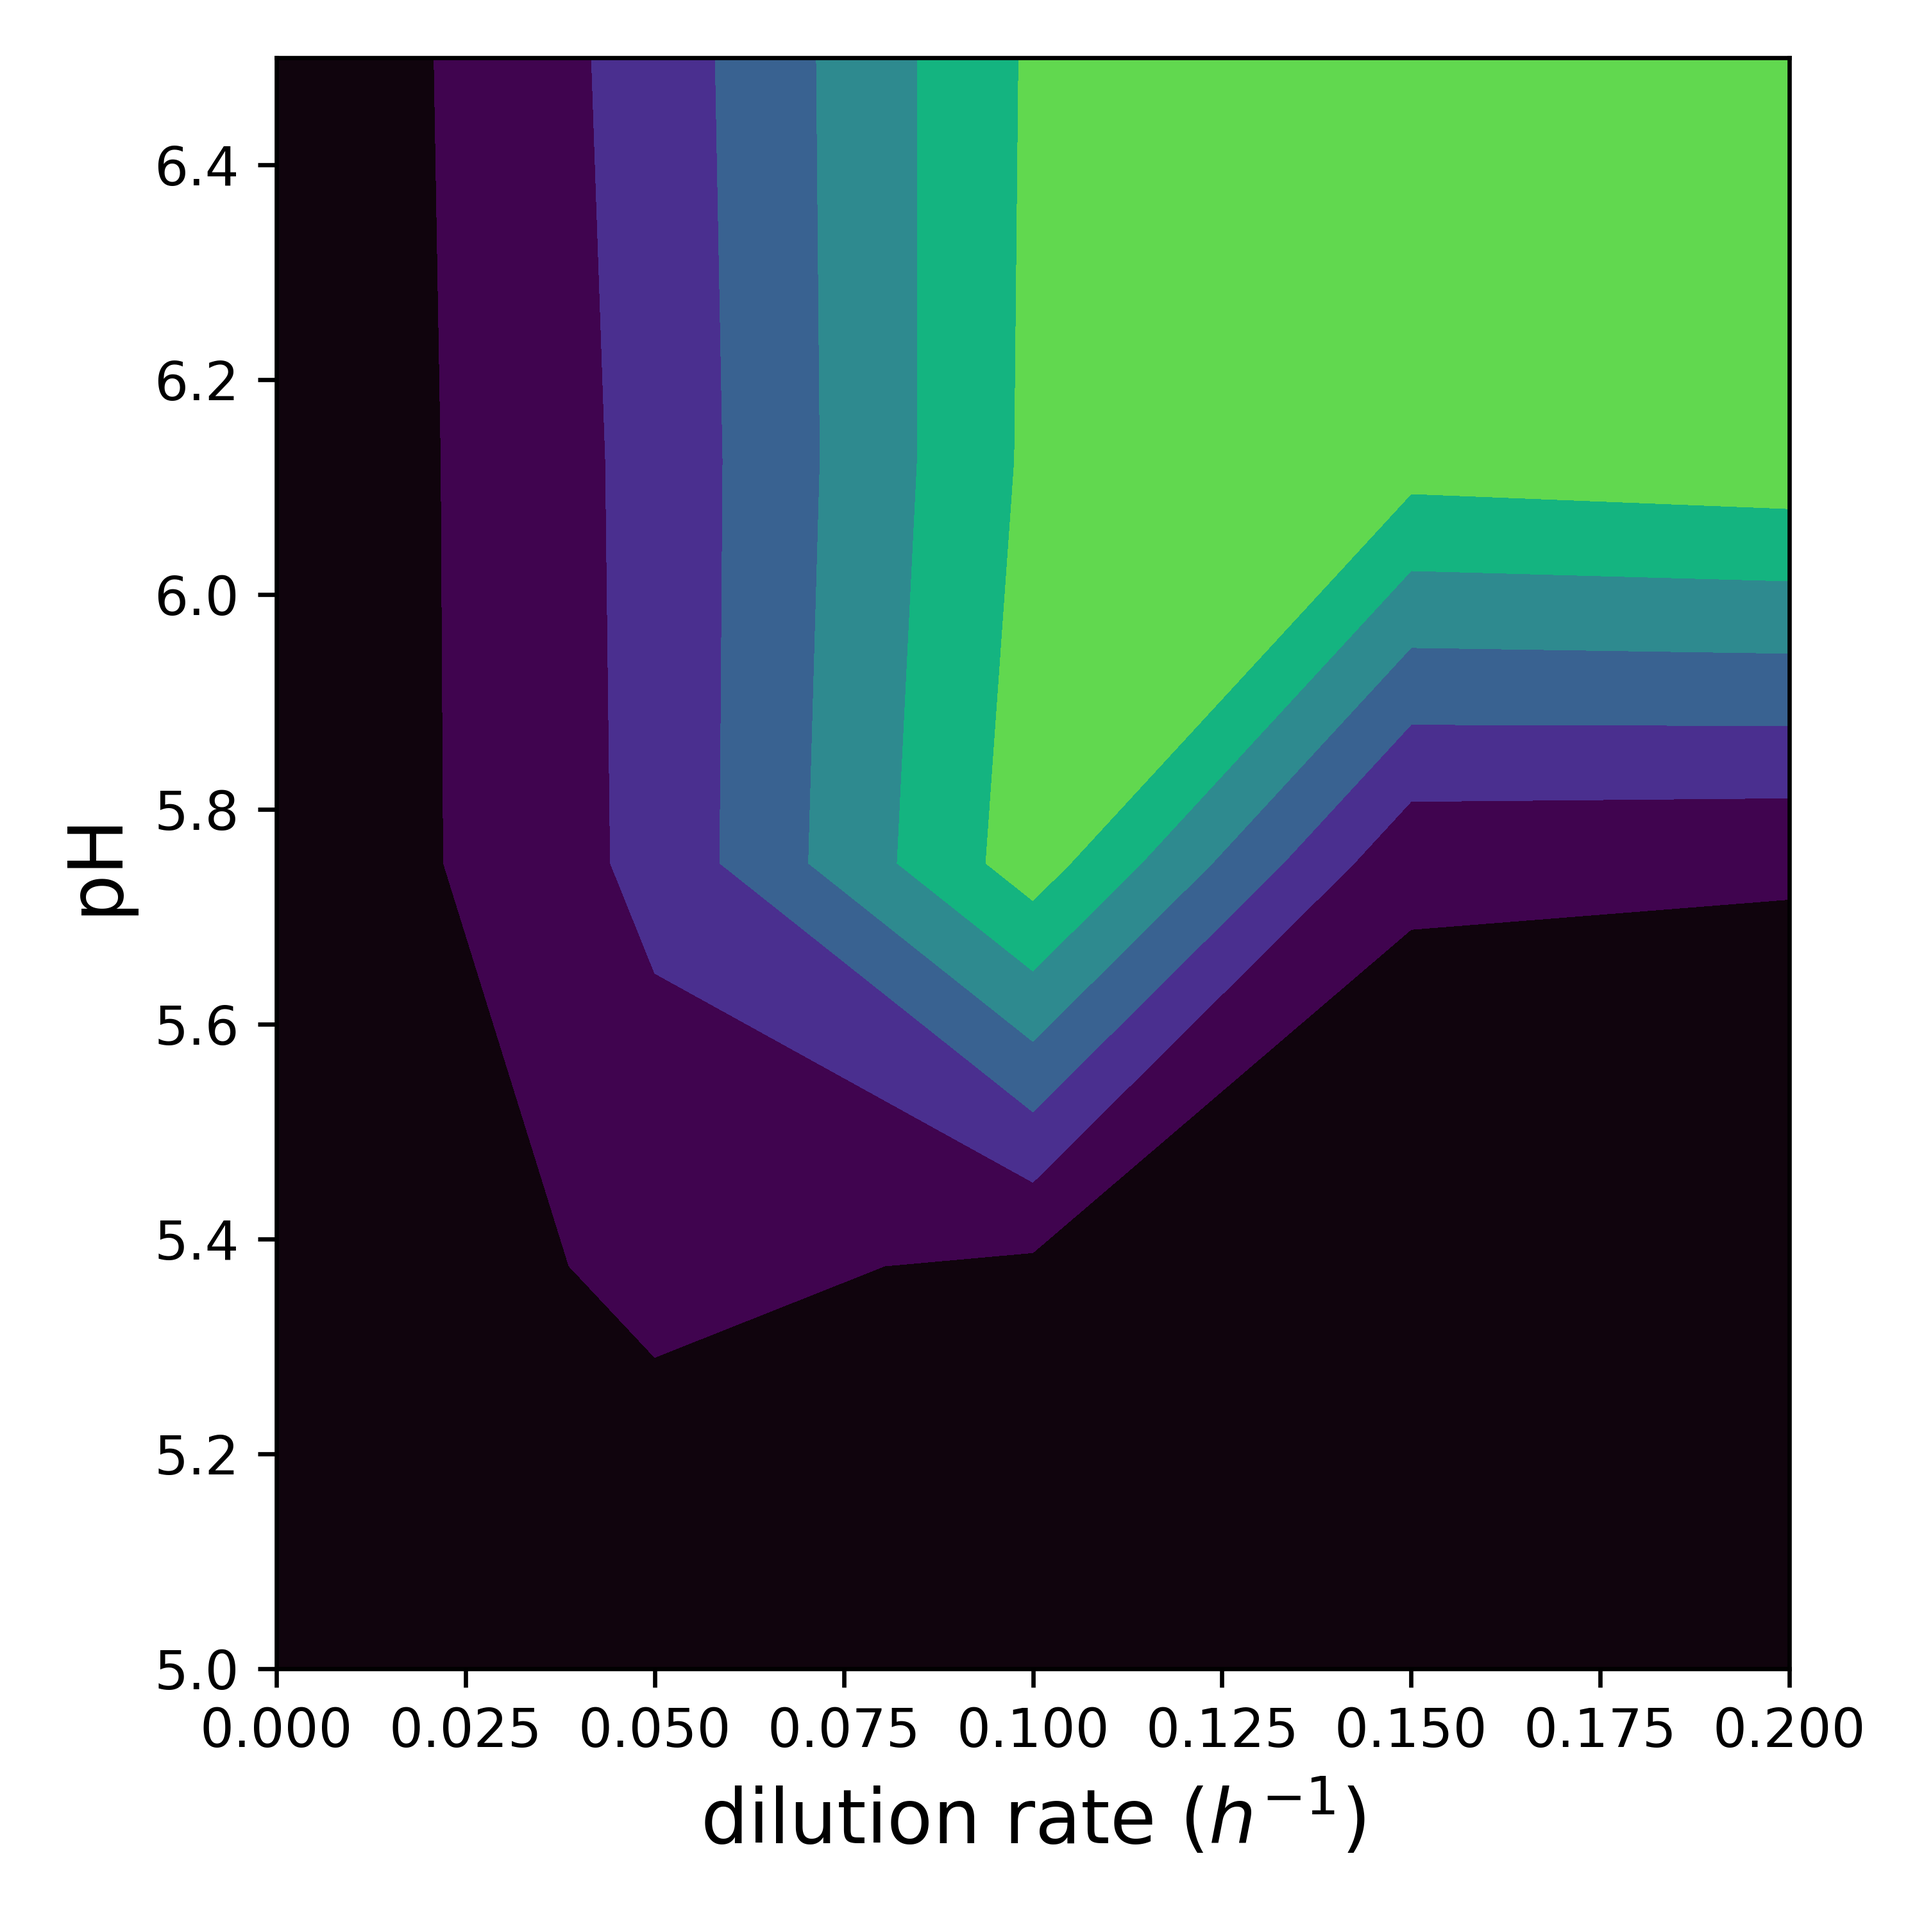
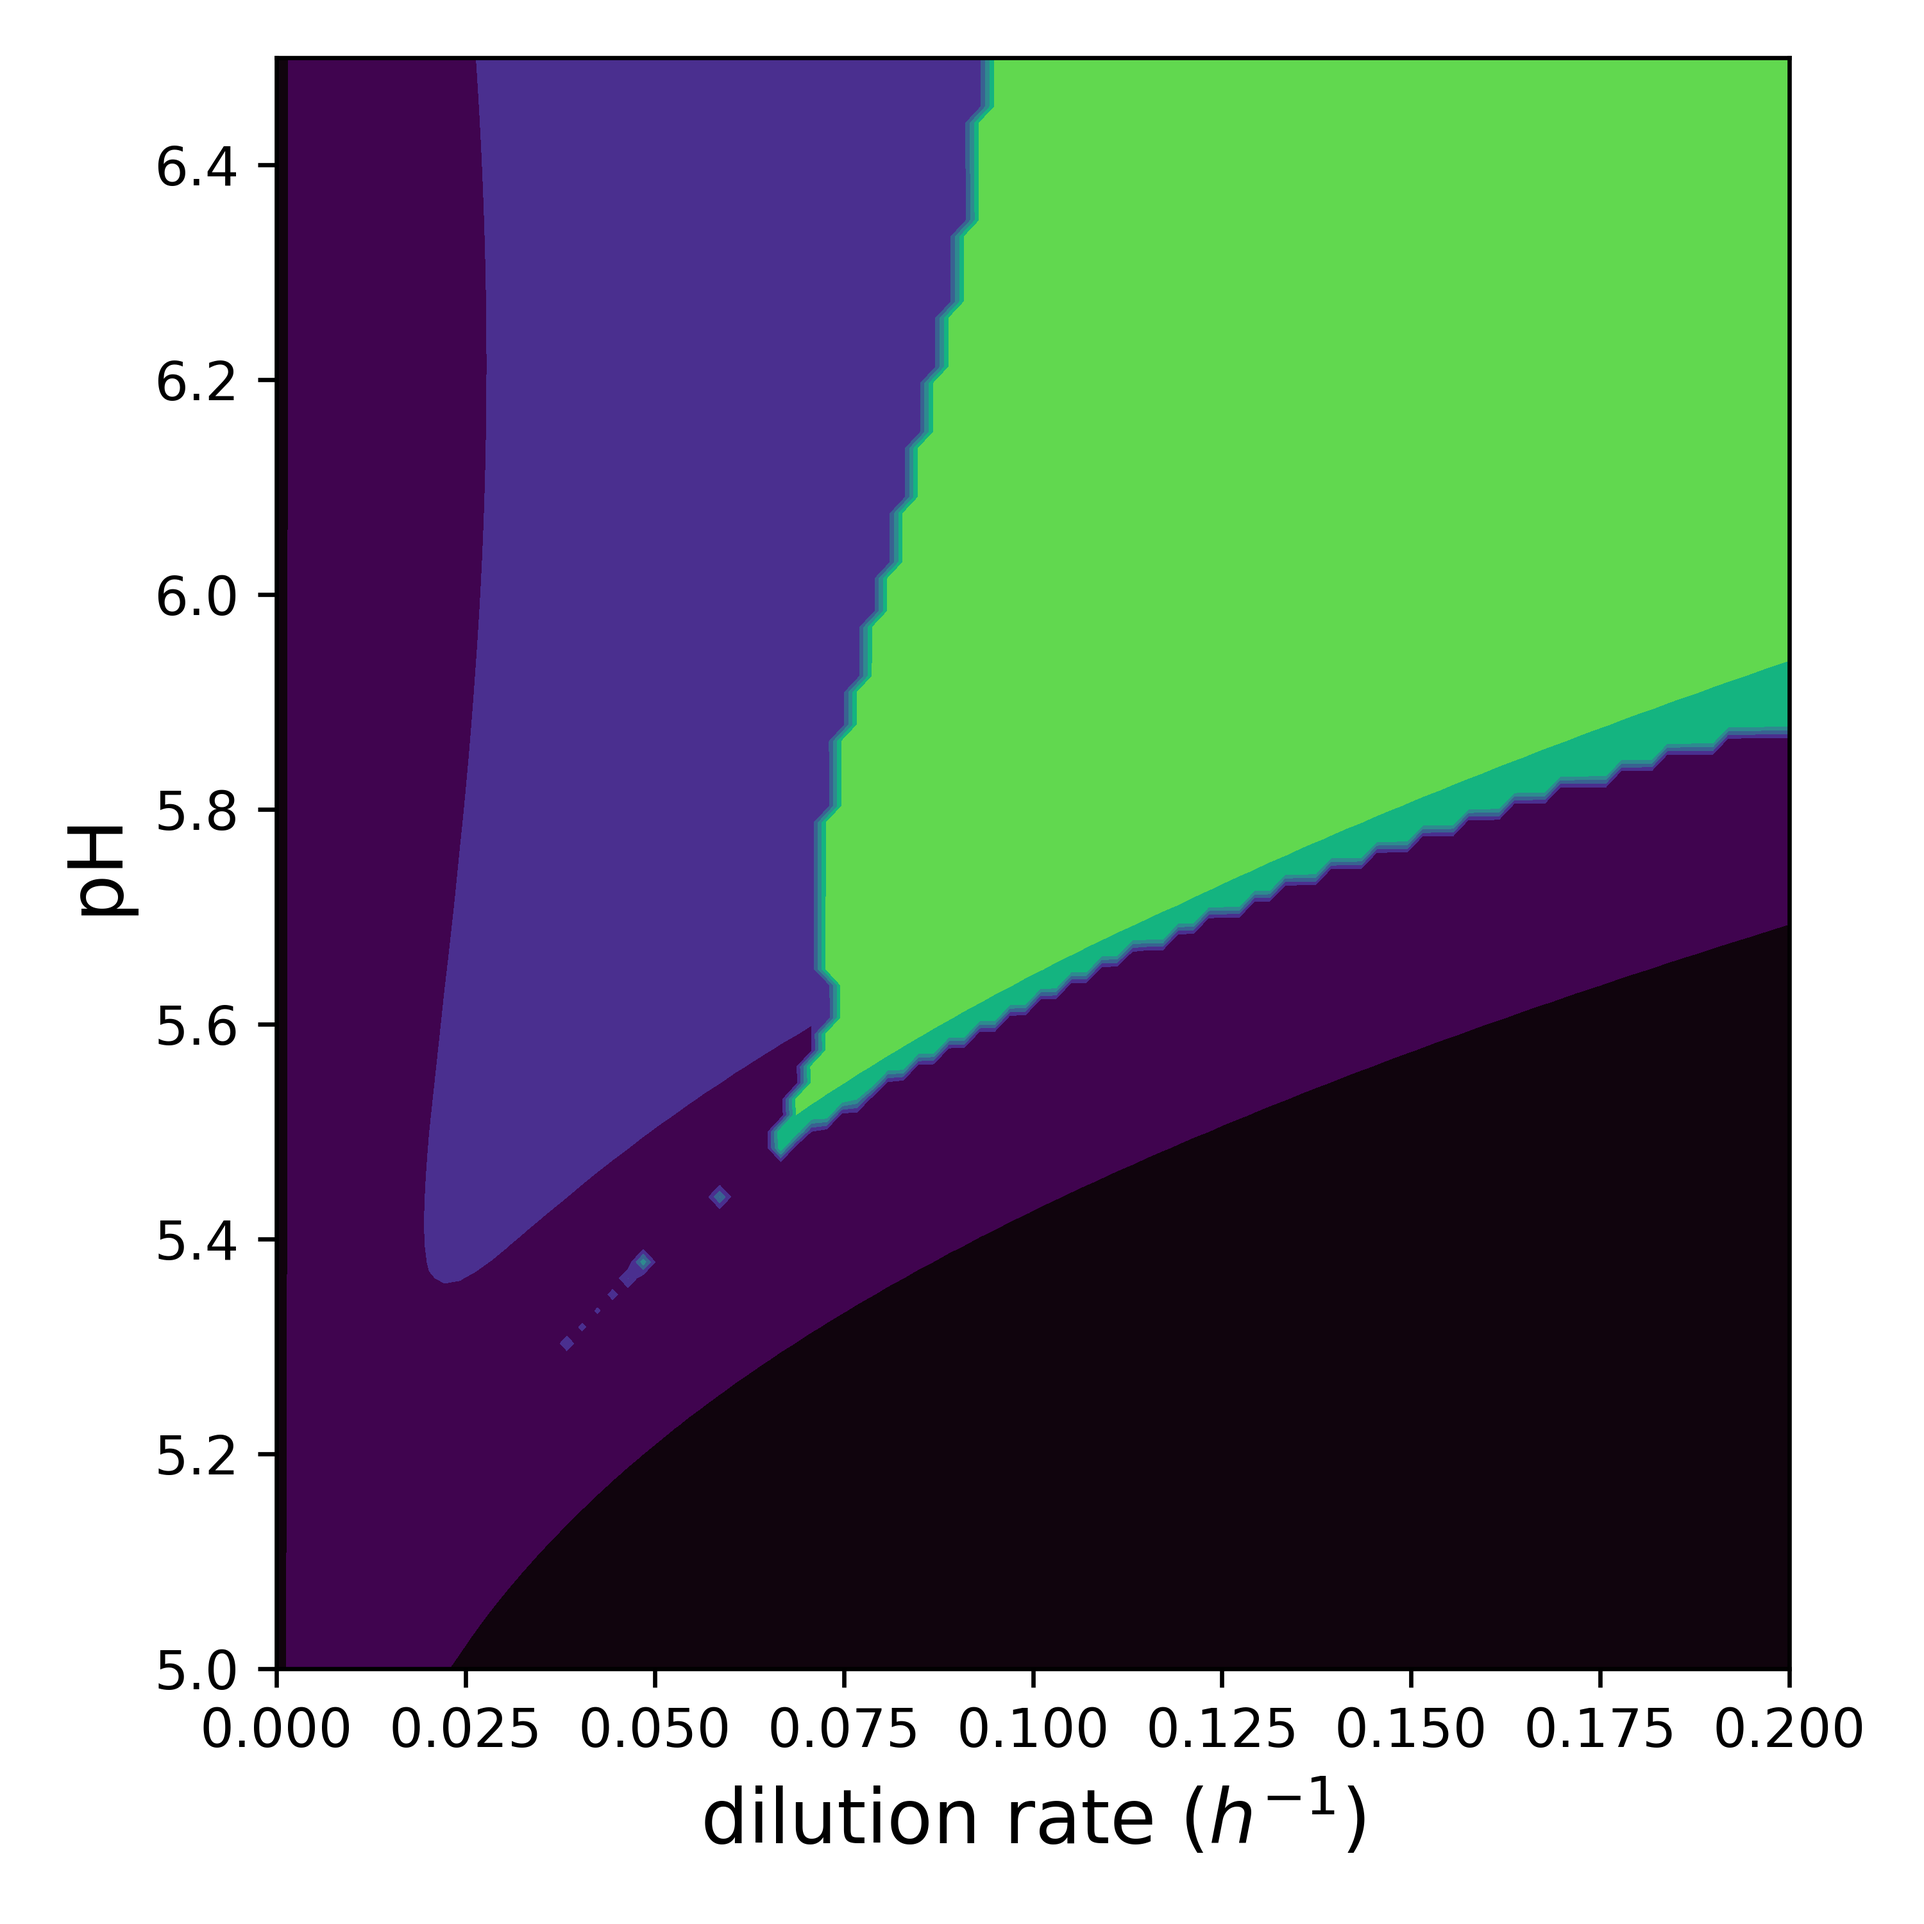
updates

Changed region(s): [[0.124, 0.031, 0.93, 0.868]]

diff --git a/scripts/analysis/dilutionRateSweep.py b/scripts/analysis/dilutionRateSweep.py
@@ -1,0 +1,282 @@
+# -*- coding: utf-8 -*-
+"""
+Created on Thu Dec  7 17:11:52 2023
+
+@author: drgarza
+"""
+from pathlib import Path
+import os
+import sys
+
+import numpy as np
+import matplotlib.pyplot as plt
+import matplotlib as mpl
+mpl.rcParams.update({'font.family':'sans-serif', 'font.sans-serif':['DejaVu Sans']})
+
+sys.path.append(os.getcwd())
+sys.path.append(os.path.join(Path(os.getcwd()).parents[0], 'db'))
+sys.path.append(os.path.join(Path(os.getcwd()).parents[0], 'core'))
+sys.path.append(os.path.join(Path(os.getcwd()).parents[1], 'files'))
+
+from param_change import *
+from readModelDB import get_database, createMetabolome, createBacteria
+from mainClasses import *
+from param_change import *
+
+import cmasher as cmr
+
+from tqdm import tqdm
+
+
+
+import plotly.io as pio
+pio.renderers.default='browser'
+
+from matplotlib.colors import ListedColormap
+
+
+
+
+def create_heatmap(data, row_labels, x_positions, x_values, xlabel, ylabel, title, fileName = None):
+    fig, ax = plt.subplots()
+    heatmap = ax.imshow(data, aspect='auto')
+    ax.grid(False)
+
+    # Set row labels (y-axis)
+    ax.set_yticks(np.arange(data.shape[0]))
+    
+    yticklabels = ax.set_yticklabels(row_labels)
+    yticklabels[-1].set_fontstyle('italic')
+    yticklabels[-2].set_fontstyle('italic')
+    yticklabels[-3].set_fontstyle('italic')
+
+    # Set specific x-ticks and labels (x-axis)
+    ax.set_xticks(x_positions)
+    ax.set_xticklabels(x_values)
+
+    # Set labels and title
+    ax.set_xlabel(xlabel)
+    ax.set_ylabel(ylabel)
+    ax.set_title(title)
+    
+    # Add grid
+    ax.set_xticks(np.arange(-.5, data.shape[1], 1), minor=True)
+    ax.set_yticks(np.arange(-.5, data.shape[0], 1), minor=True)
+    ax.grid(which="minor", color="gray", linestyle='-', linewidth=0.5)
+    ax.tick_params(which="minor", size=0)
+
+    # Add colorbar
+    cbar = ax.figure.colorbar(heatmap, ax=ax)
+    plt.tight_layout()
+    
+    if fileName is not None:
+        plt.savefig(fileName, transparent=True, dpi=600)
+
+    plt.show()
+
+
+def mockpHfunc(metObj, pH=7.0):
+    def pHfunc(metObj):
+        return pH
+    return pHfunc
+
+def makeSimulation(pHControl = None, 
+                   dilutionFactor = 0.5, 
+                   xa = 0.03,
+                   xb = 0.001,
+                   xe = 0.03,
+                   xf = 0.001,
+                   xi = 0.03,
+                   xj = 0.001):
+    
+    #pH profile
+    ipH_path = os.path.join(Path(os.getcwd()).parents[1], 'files', 'pH', 'acids_pH.tsv') 
+    databaseName = 'bhbtri_analysis_db.sqlite3'
+    databaseFolder =  os.path.join(Path(os.getcwd()).parents[1], 'files', 'dbs')
+
+    #update database with parameters from a file
+    ##########################################
+
+    
+
+       #Load database
+    db = get_database(os.path.join(databaseFolder, databaseName))
+
+    #getStarting pH
+    wc = createMetabolome(db, 'wc_media')
+    
+    if pHControl is None:
+        predictpH = getpH(wc.metabolites, ipH_path)
+    else:
+        predictpH = mockpHfunc(wc.metabolites,pH=pHControl)
+     
+    pH =  predictpH(wc.get_concentration())
+
+    #get the feed media and the reactor media
+    wc_feed = createMetabolome(db, 'wc_media', pH, pHFunc=predictpH)
+    wc_reactor = createMetabolome(db, 'wc_media', pH, pHFunc=predictpH)
+
+    #get the feed obj. Make it sterile
+    feed_microbiome = Microbiome({'bh':createBacteria(db, 'bh', 'wc_media'),
+                              'bt':createBacteria(db, 'bt', 'wc_media'),
+                              'ri':createBacteria(db, 'ri', 'wc_media')})
+    feed_microbiome.subpopD['xa'].count = 0
+    feed_microbiome.subpopD['xe'].count = 0
+    feed_microbiome.subpopD['xi'].count = 0
+
+    #create the reactor obj, with starting populations
+    reactor_microbiome = Microbiome({'bh':createBacteria(db, 'bh', 'wc_media'),
+                                 'bt':createBacteria(db, 'bt', 'wc_media'),
+                                 'ri':createBacteria(db, 'ri', 'wc_media')})
+    reactor_microbiome.subpopD['xa'].count = xa
+    reactor_microbiome.subpopD['xb'].count = xb
+    reactor_microbiome.subpopD['xe'].count = xe
+    reactor_microbiome.subpopD['xf'].count = xf
+    reactor_microbiome.subpopD['xi'].count = xi
+    reactor_microbiome.subpopD['xj'].count = xj
+    
+    batchA = Pulse(wc_feed, feed_microbiome, 0, 6000, 100, 0, 0, dilutionFactor,dilutionFactor)
+    
+        #simulate
+    reactor = Reactor(reactor_microbiome, wc_reactor,[
+                                                      batchA
+                                                       ], 15)
+    
+    reactor = update_bh_Params("z1_r", 0.0, reactor)
+    reactor = update_bh_Params("z2_r", 0.0, reactor)
+    
+    reactor = update_bt_Params("z6_r", 0.0, reactor)
+    reactor = update_bt_Params("z10_r", 0.0, reactor)
+    
+    reactor = update_ri_Params("z11_r", 0.0, reactor)
+    reactor = update_ri_Params("z15_r", 0.0, reactor)
+    reactor.simulate()
+    
+    
+    
+    batchA = Pulse(wc_feed, feed_microbiome, 0, 6000, 100, 0, 0, dilutionFactor,dilutionFactor)
+
+    #simulate
+    reactor = Reactor(reactor_microbiome, wc_reactor,[
+                                                  batchA
+                                                   ], 15)
+    reactor.simulate()
+    b = reactor.cellActive_dyn.T[-1]
+    bac_composition = b
+    pyru = reactor.met_simul[reactor.metabolome.metabolites.index('pyruvate')]
+    gluc = reactor.met_simul[reactor.metabolome.metabolites.index('glucose')]
+    treh = reactor.met_simul[reactor.metabolome.metabolites.index('trehalose')]
+    mann = reactor.met_simul[reactor.metabolome.metabolites.index('mannose')]
+    acet = reactor.met_simul[reactor.metabolome.metabolites.index('acetate')]
+    form = reactor.met_simul[reactor.metabolome.metabolites.index('formate')]
+    lact = reactor.met_simul[reactor.metabolome.metabolites.index('lactate')]
+    succ = reactor.met_simul[reactor.metabolome.metabolites.index('succinate')]
+    buty = reactor.met_simul[reactor.metabolome.metabolites.index('butyrate')]
+
+    metsA = np.array([pyru[0],
+        gluc[0],
+        treh[0],
+        mann[0],
+        acet[0],
+        lact[0],
+        form[0],
+        succ[0],
+        buty[0]
+        ])
+    metsB = np.array([pyru[-1],
+        gluc[-1],
+        treh[-1],
+        mann[-1],
+        acet[-1],
+        lact[-1],
+        form[-1],
+        succ[-1],
+        buty[-1]
+        ])
+    pH = reactor.pH_simul[-1]
+    return bac_composition,metsA,metsB, pH
+
+
+
+#pH_points = np.linspace(5,6.5,30)
+simulation_points = 150 
+dilution_rate_points = np.linspace(0,3,simulation_points)
+
+
+bhbtri2_mA = []
+bhbtri2_mB = []
+bhbtri2_b = []
+bhbtri2_pH = []
+
+for d in tqdm(dilution_rate_points):
+    
+    
+    
+    
+    bac, metA, metB, pH = makeSimulation(pHControl=None,
+                                      dilutionFactor=d)
+    bhbtri2_b.append(bac)
+    bhbtri2_mA.append(metA)
+    bhbtri2_mB.append(metB)
+    bhbtri2_pH.append(pH)
+
+
+
+bh_bhbtri = np.array([i[0] for i in bhbtri2_b])
+bt_bhbtri = np.array([i[1] for i in bhbtri2_b])
+ri_bhbtri = np.array([i[2] for i in bhbtri2_b])
+
+pyru_bhbtri = np.array([i[0] for i in bhbtri2_mB])
+gluc_bhbtri = np.array([i[1] for i in bhbtri2_mB])
+treh_bhbtri = np.array([i[2] for i in bhbtri2_mB])
+mann_bhbtri = np.array([i[3] for i in bhbtri2_mB])
+acet_bhbtri = np.array([i[4] for i in bhbtri2_mB])
+lact_bhbtri = np.array([i[5] for i in bhbtri2_mB])
+form_bhbtri = np.array([i[6] for i in bhbtri2_mB])
+succ_bhbtri = np.array([i[7] for i in bhbtri2_mB])
+buty_bhbtri = np.array([i[8] for i in bhbtri2_mB])
+
+
+pH_bhbtri = np.array(bhbtri2_pH)
+
+
+dataM = np.array([pyru_bhbtri, 
+                  gluc_bhbtri, 
+                  treh_bhbtri, 
+                  mann_bhbtri, 
+                  acet_bhbtri, 
+                  lact_bhbtri, 
+                  form_bhbtri, 
+                  succ_bhbtri, 
+                  buty_bhbtri, 
+                  pH_bhbtri, 
+                  bh_bhbtri, 
+                  bt_bhbtri, 
+                  ri_bhbtri])
+
+rows = ['pyruvate', 
+        'glucose', 
+        'trehalose',
+        'mannose',
+        'acetate',
+        'lactate',
+        'succinate',
+        'formate',
+        'butyrate',
+        'pH',
+        'Blautia hydrogenotrophica',
+        'Bacteroides thetaiotaomicron',
+        'Roseburia intestinalis'
+        ]
+
+create_heatmap(dataM, 
+               rows, 
+               np.linspace(0,simulation_points-1, 6), 
+               np.round(np.linspace(0, 3/15, 6),3), 
+               'dilution rate($h^{-1})$', 
+               None, 
+               None, 
+               fileName = os.path.join(Path(os.getcwd()).parents[1], 'files', 'Figures', 'dilutionSweep.png'))
+
+
+

diff --git a/scripts/core/mainClasses.py b/scripts/core/mainClasses.py
@@ -290,7 +290,8 @@ class Subpopulation:
         
         self.pHbeta = (self.pHalpha-1)/self.pHopt
         
-        maxima = self.gammaD(self.pHopt, self.pHalpha, self.pHbeta)
+        if self.pHalpha !=0:
+            maxima = self.gammaD(self.pHopt, self.pHalpha, self.pHbeta)
     
         def pHSensitivity(pH):
             if self.pHalpha == 0:

diff --git a/scripts/analysis/contourPlots.py b/scripts/analysis/contourPlots.py
@@ -252,7 +252,7 @@ for ph in tqdm(pH_points):
 
 
 
-pH_points = np.linspace(5,6.5,5)
+pH_points = np.linspace(5,6.5,PHSIMULATIONS)
 dilution_rate_points = np.linspace(0,3,DILUTIONSIMULATIONS)/15
 
 
